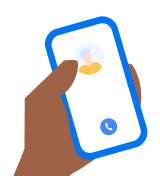
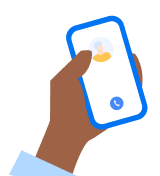
add all images for themes

diff --git a/src/screens/actions/ActionsScreen.tsx b/src/screens/actions/ActionsScreen.tsx
@@ -1,4 +1,4 @@
-import React, { useEffect, useState } from 'react'
+import React, { useCallback, useEffect, useState } from 'react'
 import { Text, StyleSheet, FlatList, ListRenderItemInfo } from 'react-native'
 import SafeAreaView from 'react-native-safe-area-view'
 import { Action } from '../../core/entities/Action'
@@ -23,11 +23,11 @@ const ActionsScreen = ({ navigation }: ActionsScreenProp) => {
   const { theme } = useTheme()
   const [fetchedActions] = useState(new Map<number, Action>())
 
-  useEffect(() => {
-    const fetch = (enablePhoning?: boolean) => {
+  const fetch = useCallback(
+    (enablePhoning: boolean) => {
       setStatefulState(new ViewState.Loading())
       ActionsRepository.getInstance()
-        .getActions(!!enablePhoning)
+        .getActions(enablePhoning)
         .then((actions) => {
           fetchedActions.clear()
           actions.forEach((action) => {
@@ -38,19 +38,24 @@ const ActionsScreen = ({ navigation }: ActionsScreenProp) => {
         })
         .catch((error) => {
           setStatefulState(
-            new ViewState.Error(
-              GenericErrorMapper.mapErrorMessage(error),
-              fetch,
+            new ViewState.Error(GenericErrorMapper.mapErrorMessage(error), () =>
+              fetch(enablePhoning),
             ),
           )
         })
-    }
+    },
+    [fetchedActions, theme],
+  )
 
-    new GetPhoningStateInteractor()
-      .execute()
-      .then((state) => fetch(state === PhoningState.ENABLED))
-      .catch(fetch)
-  }, [theme])
+  useEffect(
+    useCallback(() => {
+      new GetPhoningStateInteractor()
+        .execute()
+        .then((state) => fetch(state === PhoningState.ENABLED))
+        .catch(fetch)
+    }, [fetch]),
+    [theme],
+  )
 
   const renderItem = ({ item }: ListRenderItemInfo<ActionRowViewModel>) => {
     return (

diff --git a/src/themes/OrangeTheme.ts b/src/themes/OrangeTheme.ts
@@ -43,9 +43,9 @@ const OrangeTheme: Theme = {
     phoningSessionFailure: () =>
       require('../assets/images/orange/phoningSessionFailure.png'),
     emptyCampaigns: () => require('../assets/images/orange/imagePhoning.png'),
-    polls: () => require('../assets/images/blue/imagePolls.png'),
-    door2door: () => require('../assets/images/blue/imageDoor2Door.png'),
-    phoning: () => require('../assets/images/blue/imagePhoningV2.png'),
+    polls: () => require('../assets/images/orange/imagePolls.png'),
+    doorToDoor: () => require('../assets/images/orange/imageDoorToDoor.png'),
+    phoning: () => require('../assets/images/orange/imagePhoningV2.png'),
   },
 }
 

diff --git a/src/themes/PurpleTheme.ts b/src/themes/PurpleTheme.ts
@@ -43,9 +43,9 @@ const PurpleTheme: Theme = {
     phoningSessionFailure: () =>
       require('../assets/images/purple/phoningSessionFailure.png'),
     emptyCampaigns: () => require('../assets/images/purple/imagePhoning.png'),
-    polls: () => require('../assets/images/blue/imagePolls.png'),
-    door2door: () => require('../assets/images/blue/imageDoor2Door.png'),
-    phoning: () => require('../assets/images/blue/imagePhoningV2.png'),
+    polls: () => require('../assets/images/purple/imagePolls.png'),
+    doorToDoor: () => require('../assets/images/purple/imageDoorToDoor.png'),
+    phoning: () => require('../assets/images/purple/imagePhoningV2.png'),
   },
 }
 

diff --git a/src/themes/YellowTheme.ts b/src/themes/YellowTheme.ts
@@ -44,9 +44,9 @@ const YellowTheme: Theme = {
     phoningSessionFailure: () =>
       require('../assets/images/yellow/phoningSessionFailure.png'),
     emptyCampaigns: () => require('../assets/images/yellow/imagePhoning.png'),
-    polls: () => require('../assets/images/blue/imagePolls.png'),
-    door2door: () => require('../assets/images/blue/imageDoor2Door.png'),
-    phoning: () => require('../assets/images/blue/imagePhoningV2.png'),
+    polls: () => require('../assets/images/yellow/imagePolls.png'),
+    doorToDoor: () => require('../assets/images/yellow/imageDoorToDoor.png'),
+    phoning: () => require('../assets/images/yellow/imagePhoningV2.png'),
   },
 }
 

diff --git a/src/themes/PinkTheme.ts b/src/themes/PinkTheme.ts
@@ -42,9 +42,9 @@ const PinkTheme: Theme = {
     phoningSessionFailure: () =>
       require('../assets/images/pink/phoningSessionFailure.png'),
     emptyCampaigns: () => require('../assets/images/pink/imagePhoning.png'),
-    polls: () => require('../assets/images/blue/imagePolls.png'),
-    door2door: () => require('../assets/images/blue/imageDoor2Door.png'),
-    phoning: () => require('../assets/images/blue/imagePhoningV2.png'),
+    polls: () => require('../assets/images/pink/imagePolls.png'),
+    doorToDoor: () => require('../assets/images/pink/imageDoorToDoor.png'),
+    phoning: () => require('../assets/images/pink/imagePhoningV2.png'),
   },
 }
 

diff --git a/src/themes/RedTheme.ts b/src/themes/RedTheme.ts
@@ -41,9 +41,9 @@ const RedTheme: Theme = {
     phoningSessionFailure: () =>
       require('../assets/images/red/phoningSessionFailure.png'),
     emptyCampaigns: () => require('../assets/images/red/imagePhoning.png'),
-    polls: () => require('../assets/images/blue/imagePolls.png'),
-    door2door: () => require('../assets/images/blue/imageDoor2Door.png'),
-    phoning: () => require('../assets/images/blue/imagePhoningV2.png'),
+    polls: () => require('../assets/images/red/imagePolls.png'),
+    doorToDoor: () => require('../assets/images/red/imageDoorToDoor.png'),
+    phoning: () => require('../assets/images/red/imagePhoningV2.png'),
   },
 }
 

diff --git a/src/themes/GreenTheme.ts b/src/themes/GreenTheme.ts
@@ -42,7 +42,7 @@ const GreenTheme: Theme = {
       require('../assets/images/green/phoningSessionFailure.png'),
     emptyCampaigns: () => require('../assets/images/green/imagePhoning.png'),
     polls: () => require('../assets/images/blue/imagePolls.png'),
-    door2door: () => require('../assets/images/blue/imageDoor2Door.png'),
+    doorToDoor: () => require('../assets/images/green/imageDoorToDoor.png'),
     phoning: () => require('../assets/images/blue/imagePhoningV2.png'),
   },
 }

diff --git a/src/themes/BlueTheme.ts b/src/themes/BlueTheme.ts
@@ -42,7 +42,7 @@ const BlueTheme: Theme = {
       require('../assets/images/blue/phoningSessionFailure.png'),
     emptyCampaigns: () => require('../assets/images/blue/imagePhoning.png'),
     polls: () => require('../assets/images/blue/imagePolls.png'),
-    door2door: () => require('../assets/images/blue/imageDoor2Door.png'),
+    doorToDoor: () => require('../assets/images/blue/imageDoorToDoor.png'),
     phoning: () => require('../assets/images/blue/imagePhoningV2.png'),
   },
 }

diff --git a/src/screens/actions/ActionRowViewModelMapper.ts b/src/screens/actions/ActionRowViewModelMapper.ts
@@ -20,8 +20,8 @@ function mapImage(theme: Theme, image: ActionImage): ImageSourcePropType {
   switch (image) {
     case ActionImage.POLLS:
       return theme.image.polls()
-    case ActionImage.DOOR2DOOR:
-      return theme.image.door2door()
+    case ActionImage.DOORTODOOR:
+      return theme.image.doorToDoor()
     case ActionImage.PHONING:
       return theme.image.phoning()
   }

diff --git a/src/themes/Theme.ts b/src/themes/Theme.ts
@@ -23,7 +23,7 @@ interface ThemedImages {
   phoningSessionFailure: () => ImageSourcePropType
   emptyCampaigns: () => ImageSourcePropType
   polls: () => ImageSourcePropType
-  door2door: () => ImageSourcePropType
+  doorToDoor: () => ImageSourcePropType
   phoning: () => ImageSourcePropType
 }
 

diff --git a/src/screens/actions/ActionRow.tsx b/src/screens/actions/ActionRow.tsx
@@ -41,7 +41,7 @@ const stylesFactory = (theme: Theme) => {
       alignItems: 'center',
       flexDirection: 'row',
       flex: 1,
-      paddingRight: 8 * Spacing.margin,
+      paddingRight: Spacing.margin,
     },
     title: {
       ...Typography.title2,

diff --git a/src/data/ActionsRepository.ts b/src/data/ActionsRepository.ts
@@ -15,7 +15,7 @@ class ActionsRepository {
     },
     {
       id: 2,
-      image: ActionImage.DOOR2DOOR,
+      image: ActionImage.DOORTODOOR,
       title: i18n.t('actions.door_to_door.title'),
       screen: Screen.polls,
     },
